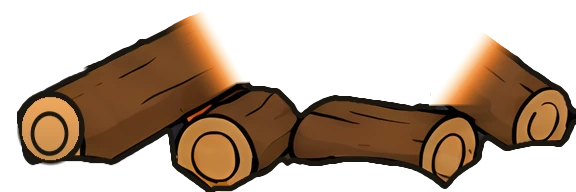
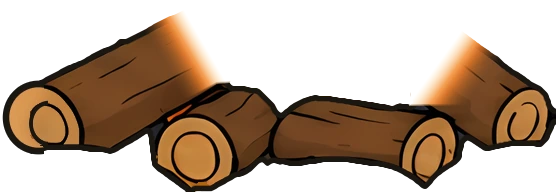
Far-left log end rounded as sketched; smoke grows as the fire dies
The far-left log is the original art again with its outline carried round
on the chopped left side and the gap filled with end grain (inner ring
finished, tone evened). Smoke now builds as the fire gets smaller, covering
the pit behind the logs where the flames no longer reach: dark grey while
it burns, nearly white once it's out, rising high. While burning it rises
from behind the logs; a dead fire's smoke pours over them. Also fixes the
smoke drift/growth that a stray comment had switched off.

Claude-Session: https://claude.ai/code/session_01LEzX9WUx8sWcSwwRyLeaEz

Changed region(s): [[0.0, 0.0625, 1.0, 1.0]]

diff --git a/web/src/components/scene.ts b/web/src/components/scene.ts
@@ -33,7 +33,7 @@ export interface SceneView { fireX: number; fireTop: number; width: number; heig
 
 // The art is painted at twice the size it is drawn (AR), so it stays sharp on big and high-density screens.
 const AR = 2, aw = (i: { width: number }) => i.width / AR, ah = (i: { height: number }) => i.height / AR;
-const W = 1942, H = 809, ZOOM = 1.1, FIRE = { x: 958, y: 605 }, PIT = { x: 958, y: 634 }, LOGS_AT = { x: 807, y: 584 };
+const W = 1942, H = 809, ZOOM = 1.1, FIRE = { x: 958, y: 605 }, PIT = { x: 958, y: 634 }, LOGS_AT = { x: 817, y: 584 };
 const BASE = import.meta.env.BASE_URL;
 const THUNDER = ["clap1", "sr1", "sr2", "sr3", "sr4", "dry1", "dry2", "dry3", "dry4"];
 const IMAGES = ["a-land.webp", "a-water.webp", "a-logs.webp", "a-logs-lit.webp", "a-tufts.webp", "a-canopy.webp", ...PAINT.clouds.map((c) => c.f),
@@ -251,11 +251,11 @@ export function createScene(canvas: HTMLCanvasElement, onView?: (v: SceneView) =
   const sparks: { x: number; y: number; vx: number; vy: number; life: number; max: number }[] = [];
   const smoke: { x: number; y: number; r: number; life: number; max: number }[] = [];
   const flying: { t0: number; x0: number; big: boolean }[] = [];
-  const white: { x: number; y: number; r: number; life: number; max: number; ph: number }[] = [];
+  const white: { x: number; y: number; r: number; life: number; max: number; ph: number; g: number; back: boolean }[] = [];
   const puffs: Record<string, HTMLCanvasElement> = {};
   function puff(rgb: string) { // one soft round puff, drawn once and reused
     if (puffs[rgb]) return puffs[rgb]; const c = mk(128, 128), x = c.getContext("2d")!, g = x.createRadialGradient(64, 64, 0, 64, 64, 64);
-    g.addColorStop(0, `rgba(${rgb},1)`); g.addColorStop(0.55, `rgba(${rgb},0.85)`); g.addColorStop(1, `rgba(${rgb},0)`); x.fillStyle = g; x.fillRect(0, 0, 128, 128); return (puffs[rgb] = c);
+    g.addColorStop(0, `rgba(${rgb},1)`); g.addColorStop(0.4, `rgba(${rgb},0.8)`); g.addColorStop(0.75, `rgba(${rgb},0.3)`); g.addColorStop(1, `rgba(${rgb},0)`); x.fillStyle = g; x.fillRect(0, 0, 128, 128); return (puffs[rgb] = c);
   }
   let outK = 0, wacc = 0;
   let sacc = 0, smacc = 0, heat = 0, lastT = 0, firePhase = 0, seenBuy = -1;
@@ -280,12 +280,35 @@ export function createScene(canvas: HTMLCanvasElement, onView?: (v: SceneView) =
     if (tl) return tl; tl = mk(img.width, img.height); const x = tl.getContext("2d")!;
     x.drawImage(img, 0, 0); x.globalCompositeOperation = "source-atop"; x.fillStyle = "rgb(236,96,28)"; x.fillRect(0, 0, img.width, img.height); return tl;
   }
+  // Smoke off the pit that grows as the fire dies down: it covers the pit behind the logs where the flames no longer
+  // reach, dark grey while the fire still burns and nearly white once it's out, and climbs high into the sky. While the
+  // fire burns it rises from behind the logs; a dead fire's smoke pours over them.
+  function drawSmoke(back: boolean, dt: number, fs: number, dk: number) {
+    if (back) {
+      outK += ((fs <= 0.02 ? 1 : 0) - outK) * Math.min(1, dt * (fs <= 0.02 ? 2.5 : 0.8));
+      const cover = Math.max(outK, Math.min(1, Math.max(0, (0.7 - fs) / 0.6)));
+      wacc += dt * 13 * cover;
+      const g = Math.round((90 + 150 * Math.min(1, Math.max(0, 1 - fs / 0.45))) * (1 - 0.12 * dk) / 10) * 10;
+      while (wacc > 1) { wacc--; white.push({ x: PIT.x - 118 + Math.random() * 236, y: PIT.y - 12 - Math.random() * 40, r: 38 + Math.random() * 26, life: 0, max: 17 + Math.random() * 6, ph: Math.random() * 6, g: Math.max(60, Math.min(250, g + Math.round((Math.random() - 0.5) * 3) * 10)), back: fs > 0.02 }); }
+      for (let i = white.length - 1; i >= 0; i--) {
+        const m = white[i]; m.life += dt; if (m.life > m.max) { white.splice(i, 1); continue; }
+        const u = m.life / m.max; m.y -= (18 + 50 * Math.min(1, u * 4)) * dt; // it hangs thick over the pit, then climbs
+        m.x += (6 + 22 * u + Math.sin(m.life * 0.9 + m.ph) * 16) * dt; m.r += (9 + 10 * u) * dt;
+      }
+    }
+    for (const m of white) {
+      if (m.back !== back) continue; const u = m.life / m.max;
+      ctx.globalAlpha = 0.62 * Math.min(1, m.life * 2) * (1 - u) ** 1.2; ctx.drawImage(puff(`${m.g},${m.g},${Math.min(255, m.g + 4)}`), m.x - m.r, m.y - m.r, m.r * 2, m.r * 2);
+    }
+    ctx.globalAlpha = 1;
+  }
   function drawFire(t: number, dt: number, fs: number, flick: number, dk: number) {
     if (fs > 0.01 && glDraw) {
       glDraw(firePhase, flick, fs);
       ctx.save(); ctx.globalCompositeOperation = "screen"; ctx.drawImage(glc, 558, -226); ctx.restore();
       if (dk < 0.6) { ctx.save(); ctx.globalAlpha = 0.28 * (1 - dk / 0.6); ctx.drawImage(glc, 558, -226); ctx.restore(); }
     }
+    drawSmoke(true, dt, fs, dk);
     heat += ((fs > 0.01 ? 0.35 + 0.65 * Math.min(1, fs) : 0) - heat) * Math.min(1, dt * (fs > 0.01 ? 2 : 0.12)); // logs keep glowing a while after it dies
     const img = assets["a-logs.webp"], litImg = assets["a-logs-lit.webp"];
     if (img) { // built on their own canvas so the glow stays on the logs; the ends that sit in the flames melt into them (a-logs-lit)
@@ -318,19 +341,7 @@ export function createScene(canvas: HTMLCanvasElement, onView?: (v: SceneView) =
       const c = mix([78, 76, 82], [170, 95, 55], Math.max(0, 1 - u * 3) * dk * Math.min(1, fs * 1.5));
       ctx.fillStyle = `rgba(${c[0]},${c[1]},${c[2]},${0.12 * Math.min(1, m.life * 0.7) * (1 - u)})`; ctx.beginPath(); ctx.arc(m.x, m.y, m.r, 0, 7); ctx.fill();
     }
-    // a dead fire: thick white smoke pours off the pit (covering it, like the flames do) and climbs high into the sky
-    outK += ((fs <= 0.02 ? 1 : 0) - outK) * Math.min(1, dt * (fs <= 0.02 ? 2.5 : 0.8));
-    wacc += dt * 17 * outK;
-    while (wacc > 1) { wacc--; white.push({ x: PIT.x - 118 + Math.random() * 236, y: PIT.y - 12 - Math.random() * 40, r: 38 + Math.random() * 26, life: 0, max: 17 + Math.random() * 6, ph: Math.random() * 6 }); }
-    if (white.length) {
-      const sp = puff(dk > 0.5 ? "205,210,220" : "240,240,238");
-      for (let i = white.length - 1; i >= 0; i--) {
-        const m = white[i]; m.life += dt; if (m.life > m.max) { white.splice(i, 1); continue; }
-        const u = m.life / m.max; m.y -= (18 + 50 * Math.min(1, u * 4)) * dt; // it hangs thick over the pit, then climbs m.x += (6 + 22 * u + Math.sin(m.life * 0.9 + m.ph) * 8) * dt; m.r += (9 + 10 * u) * dt;
-        ctx.globalAlpha = 0.72 * Math.min(1, m.life * 2) * (1 - u) ** 1.2; ctx.drawImage(sp, m.x - m.r, m.y - m.r, m.r * 2, m.r * 2);
-      }
-      ctx.globalAlpha = 1;
-    }
+    drawSmoke(false, dt, fs, dk);
     if (fs > 0.01) sacc += dt * (2 + 8 * fs + 10 * fs * fs * fs);
     while (sacc > 1) { sacc--; sparks.push({ x: PIT.x + (Math.random() - 0.5) * (60 + 120 * fs), y: PIT.y - 40 - Math.random() * 80, vx: (Math.random() - 0.5) * 50, vy: -(90 + 150 * Math.min(1, fs)) * (0.5 + Math.random()), life: 0, max: 1 + Math.random() * 1.6 }); }
     ctx.save(); ctx.globalCompositeOperation = "lighter";
